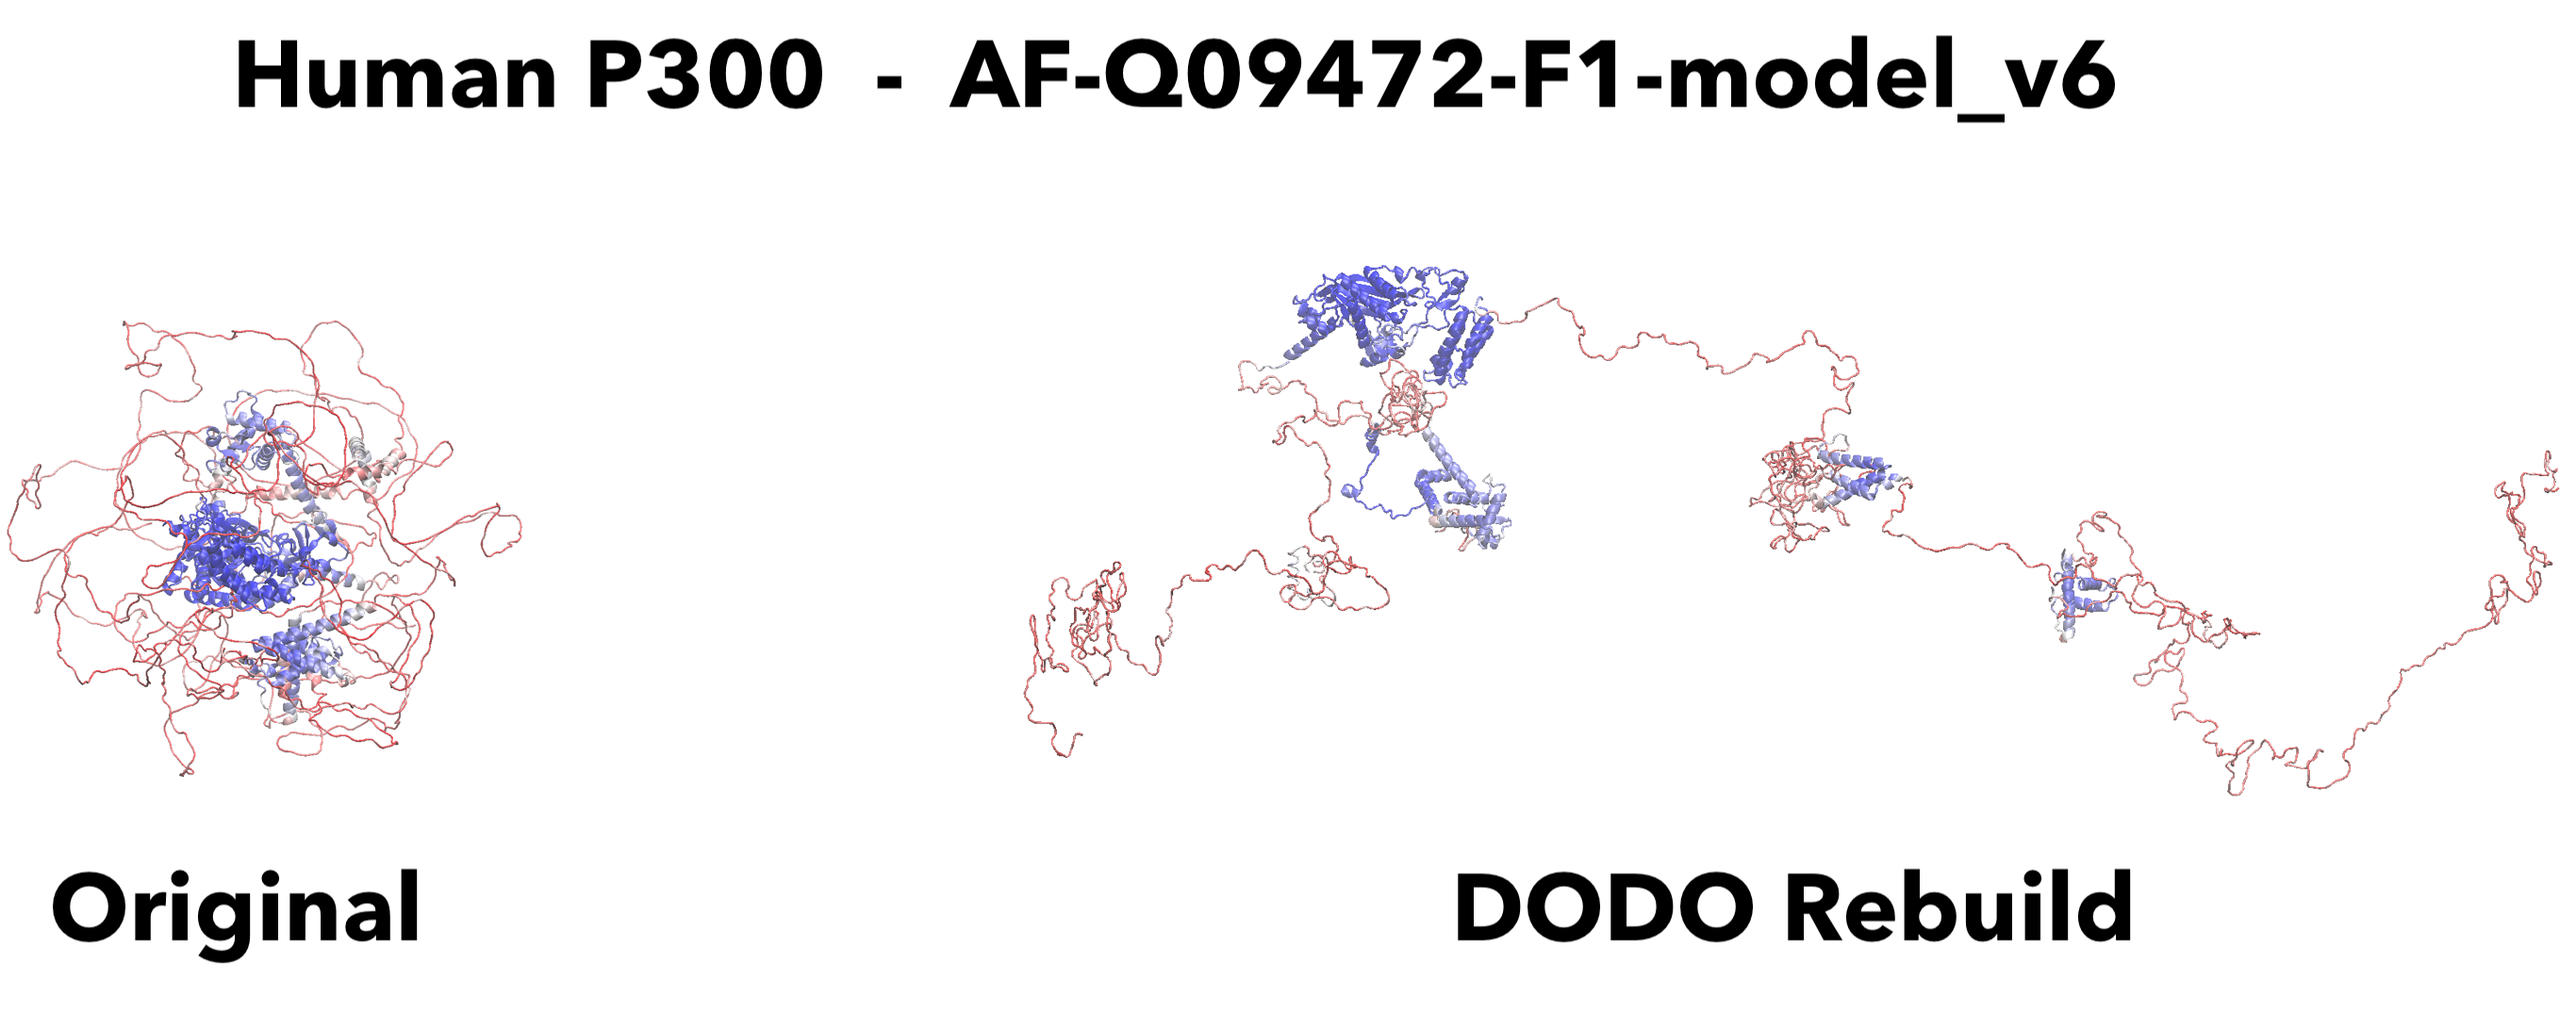
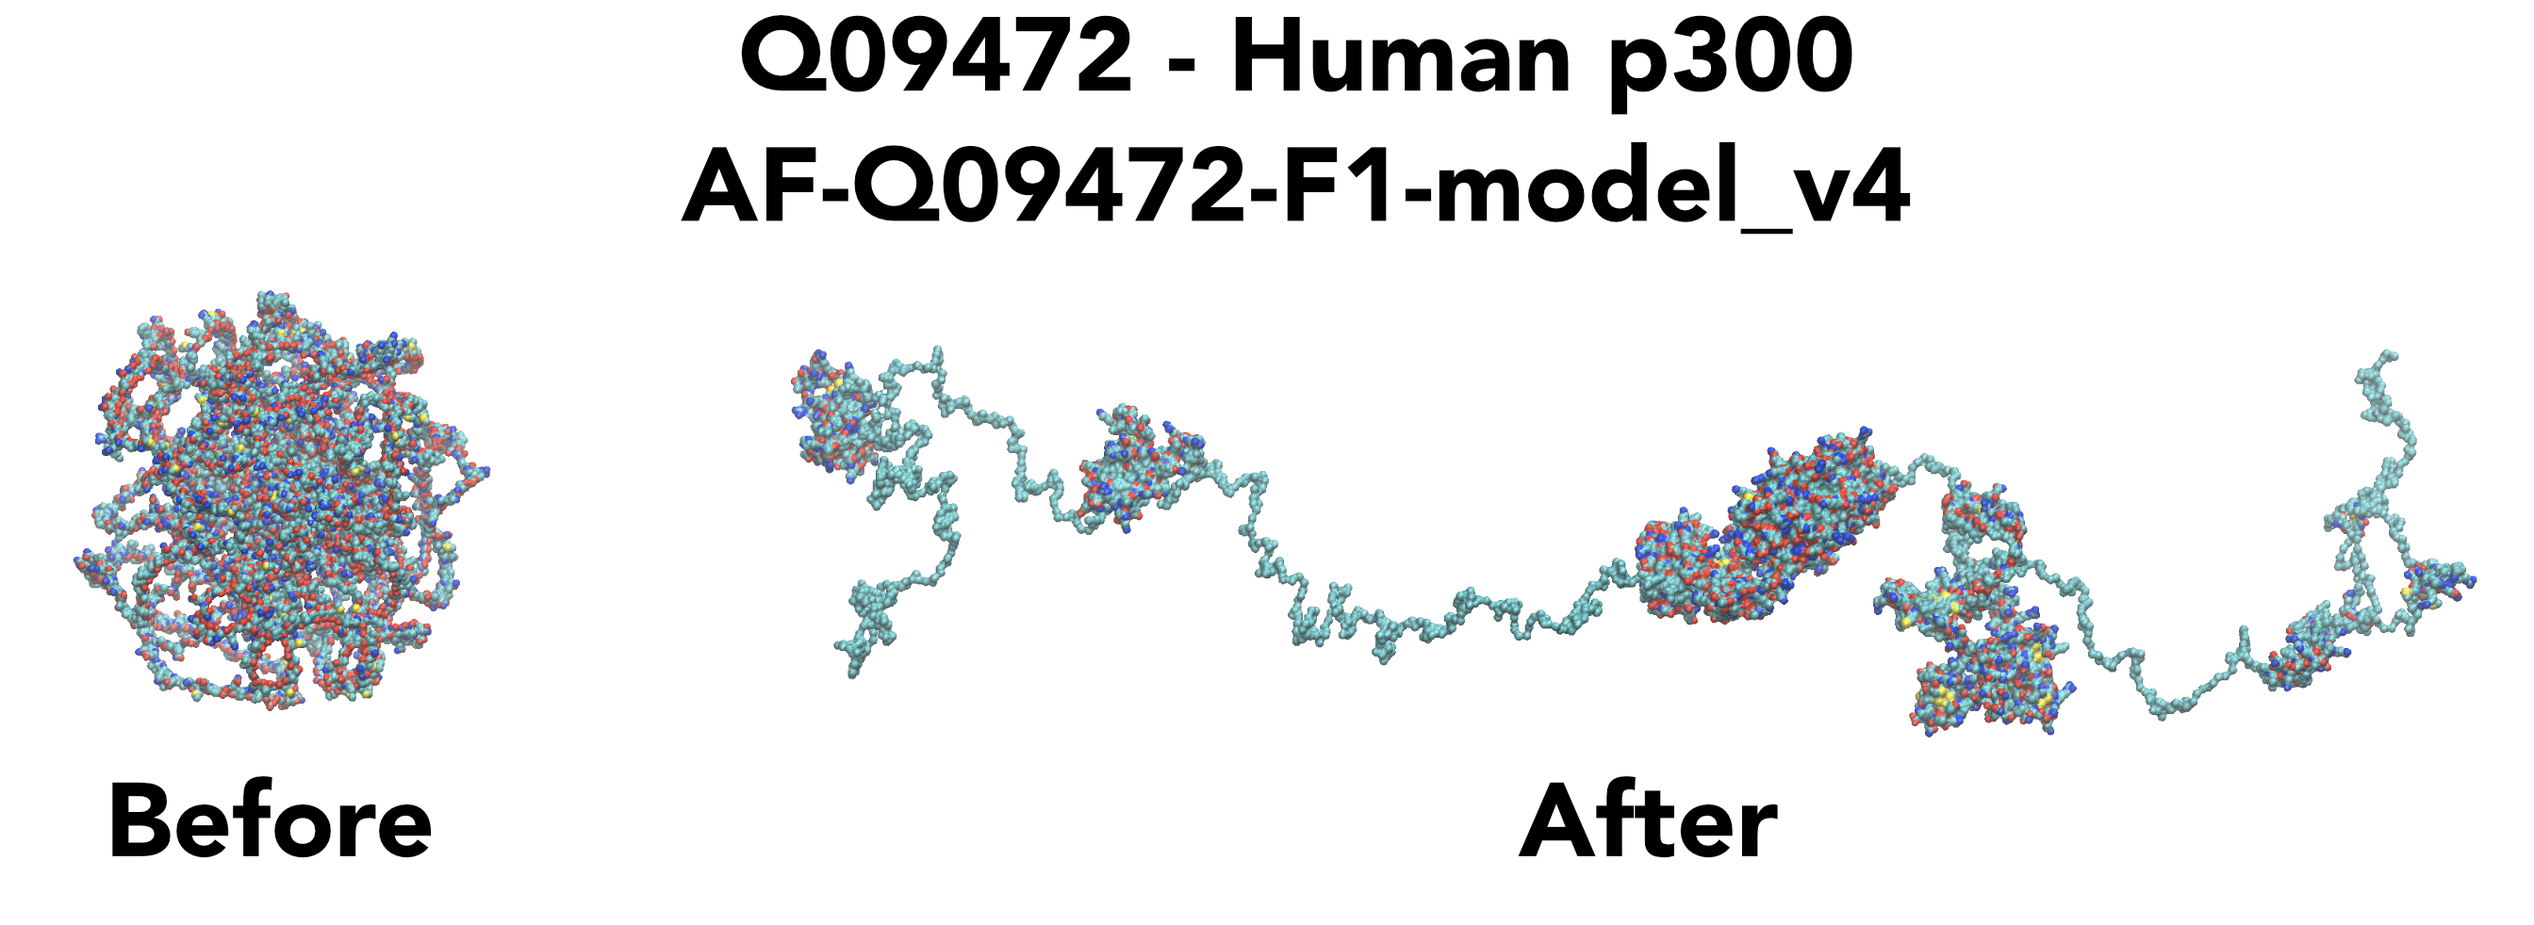
working on cif implementation

diff --git a/README.md b/README.md
@@ -23,7 +23,7 @@ simulation trajectory — to be very clear, it is **not** equivalent to a simula
 nice for visualization.
 
 
-![DODO_EXAMPLE](https://github.com/idptools/dodo/blob/main/images/DODO_example.png)
+![DODO_EXAMPLE](https://github.com/idptools/dodo/blob/main/images/DODOv2_example.png)
 
 > **DODO 2.0 is a rewrite and it breaks the 1.x API.** The `build.pdb_from_name()` /
 > `pdb_from_pdb()` / `pdb_from_sequence()` functions and the three `pdb-from-*` console
